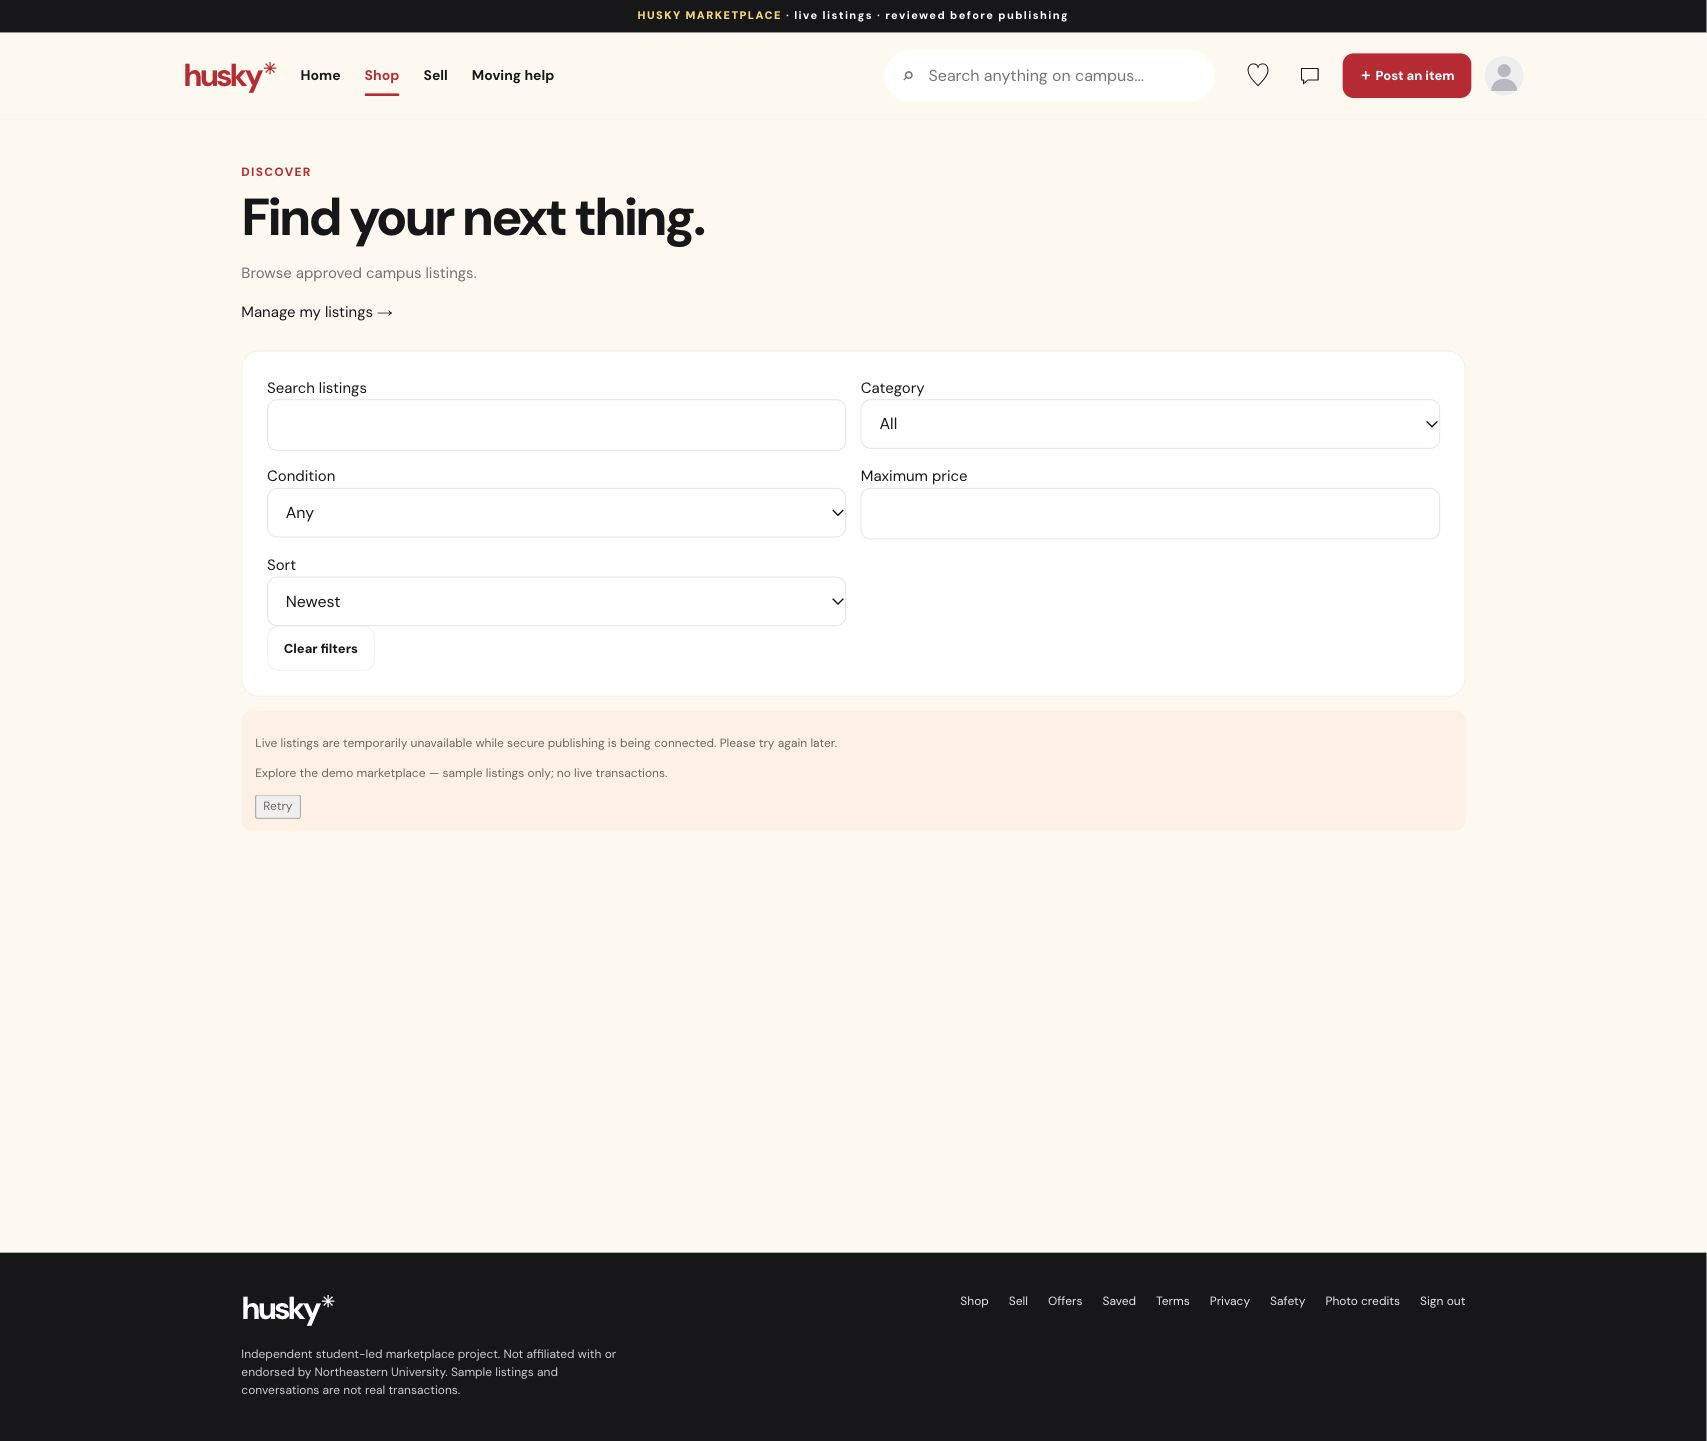
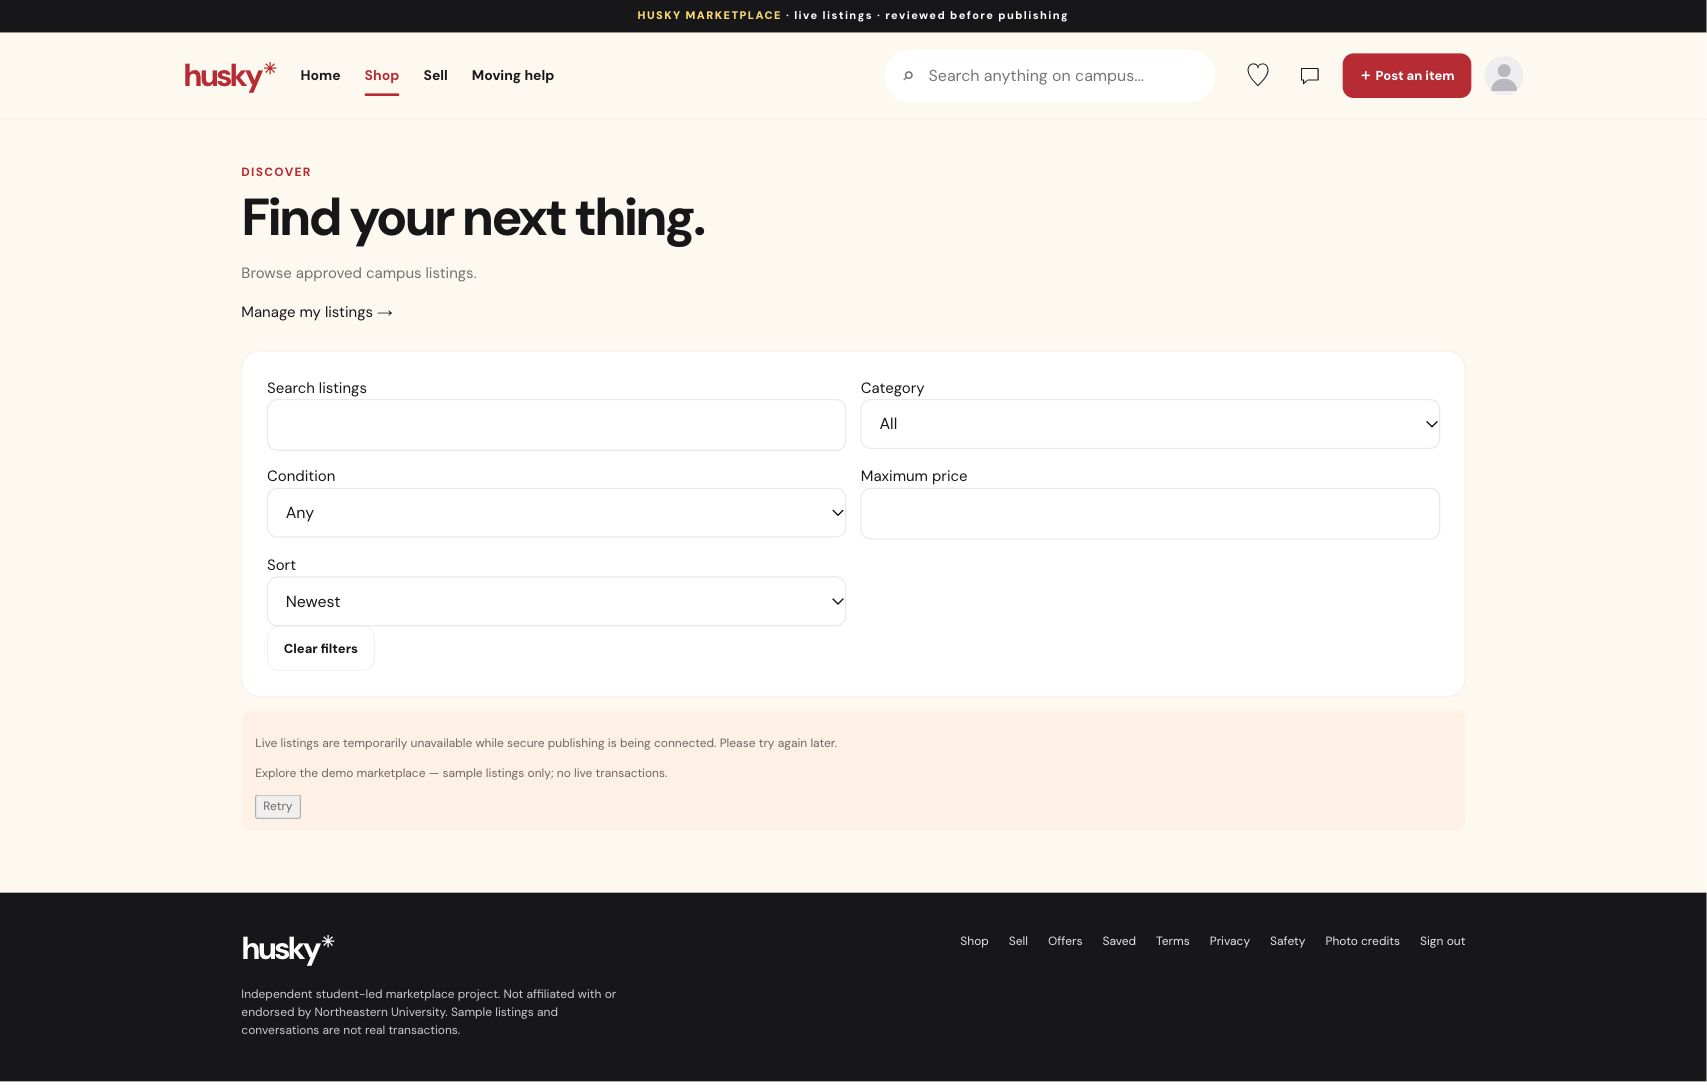
Keep desktop footers close to page content

diff --git a/src/frontend/components/ui/marketplace/UI.module.css b/src/frontend/components/ui/marketplace/UI.module.css
@@ -1916,6 +1916,17 @@
 .footer {
   margin-top: auto;
 }
+@media (min-width: 801px) {
+  .page {
+    min-height: 0;
+  }
+  .page > main {
+    flex: none;
+  }
+  .footer {
+    margin-top: 0;
+  }
+}
 .movingPage {
   min-height: 0;
   padding-bottom: 32px;
